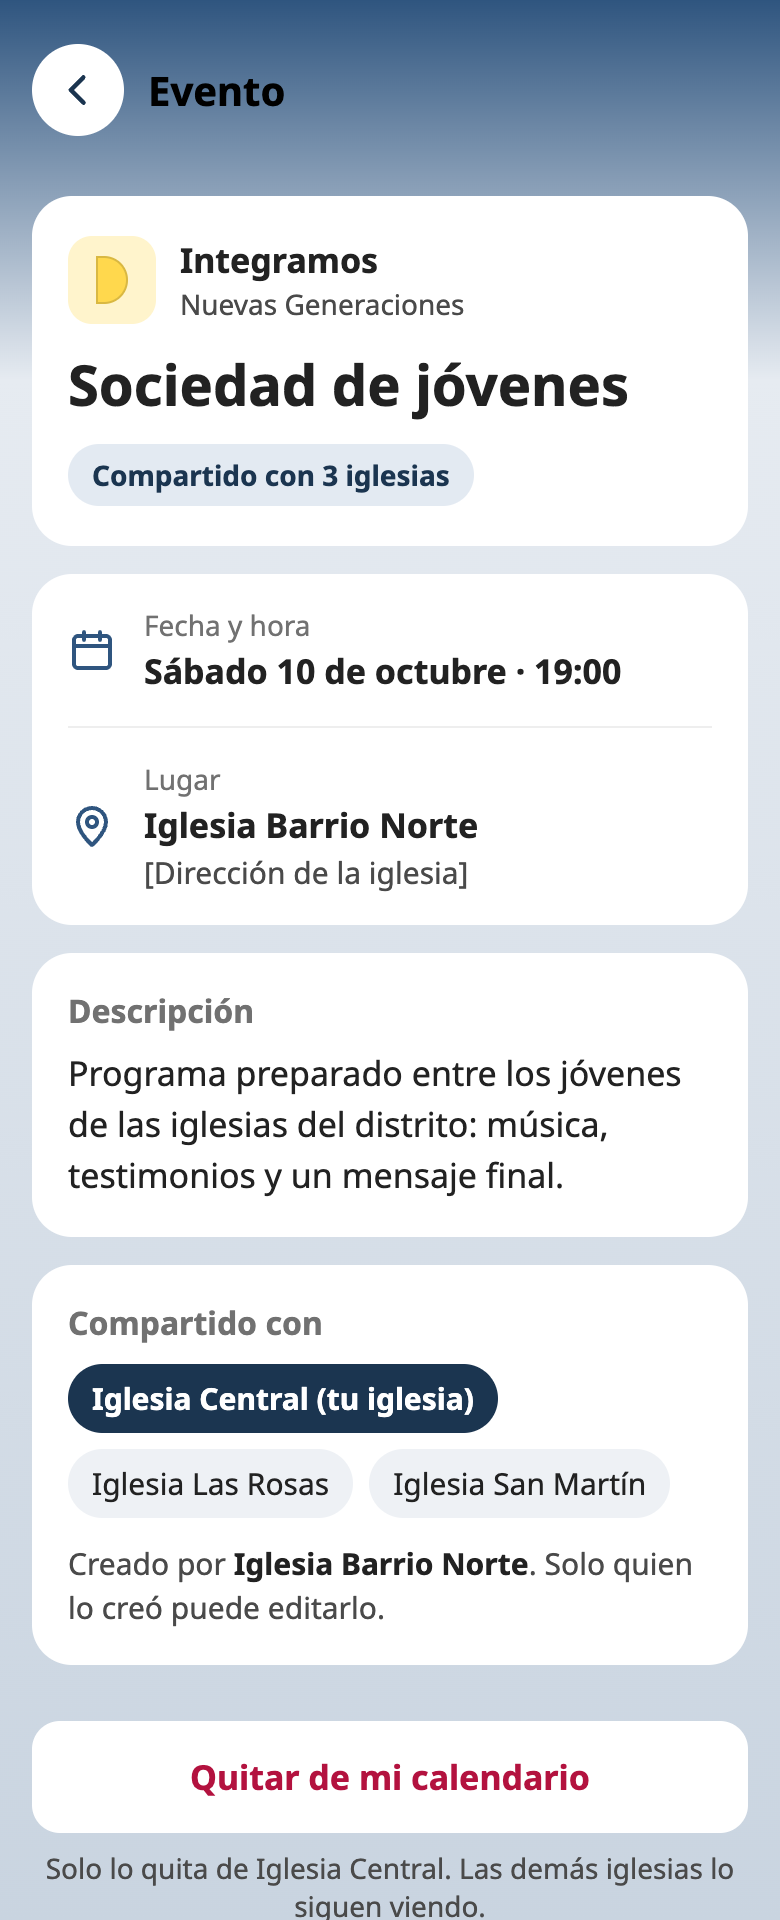
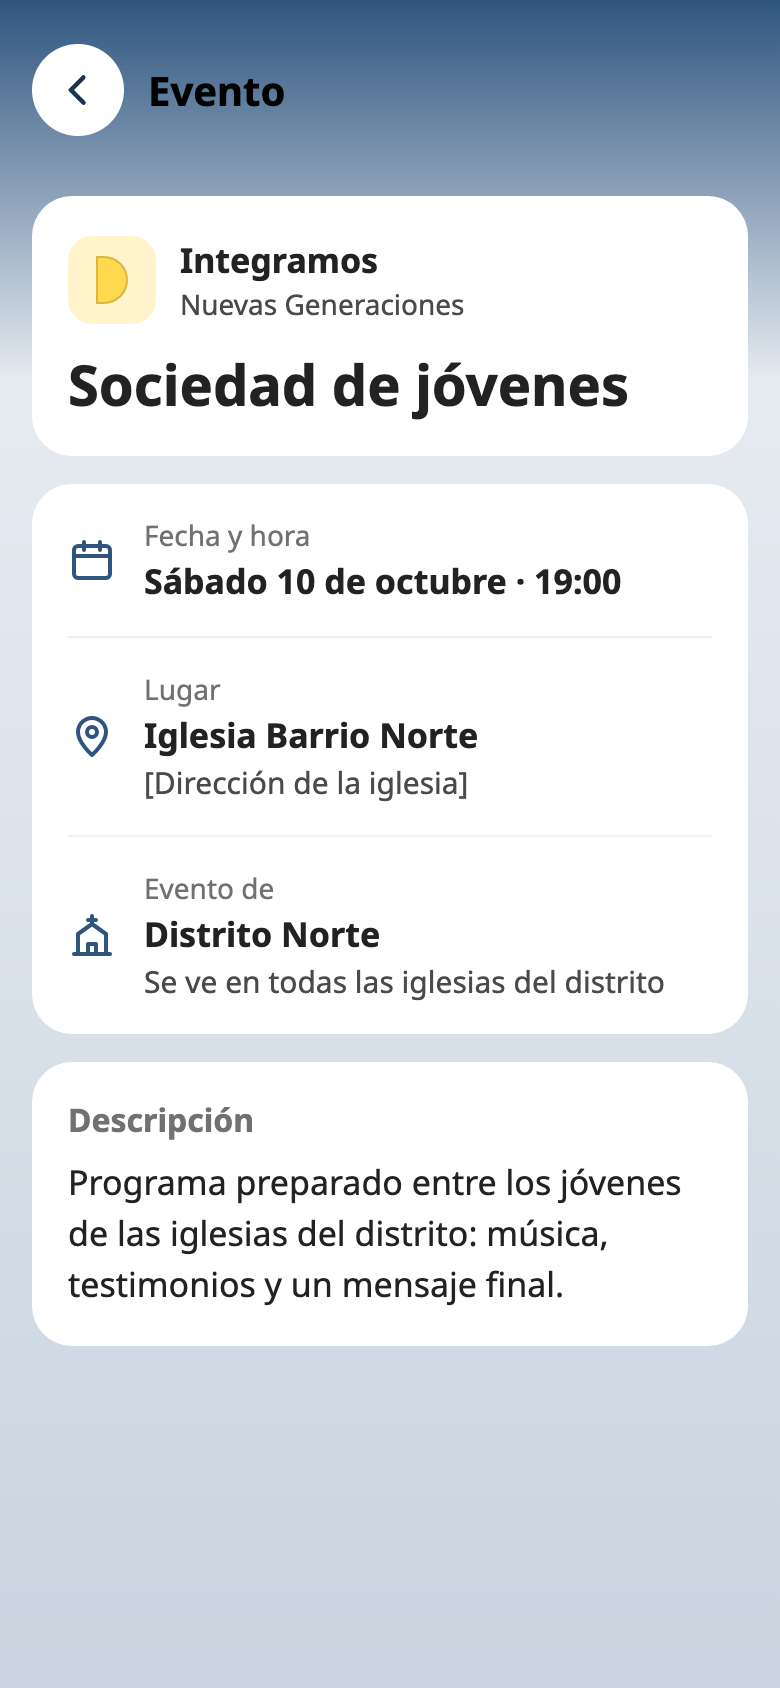
docs(diseno): show the duenio in Detalle de evento instead of who created it (#40)
- Replace "Solo quien lo creó puede editarlo" with the Evento de row.
- Add Editar and Borrar for whoever has a cargo that covers the duenio,
  and the Se repite row for a serie.
- Keep the shared evento in the HTML, off as v2.

diff --git a/diseno/pantallas/05-detalle-evento.html b/diseno/pantallas/05-detalle-evento.html
@@ -14,7 +14,7 @@ body{margin:0;font-family:'Noto Sans','Segoe UI',system-ui,sans-serif;color:#222
 a{color:#1B3550}a:hover{color:#10233A}
 </style>
 </helmet>
-<div style="width: 390px; height: 960px; box-sizing: border-box; background: linear-gradient(180deg, #2F557F 0px, #E6EBF1 190px, #C9D4E0 100%); display: flex; flex-direction: column; font-family: 'Noto Sans', 'Segoe UI', system-ui, sans-serif; color: #222222">
+<div style="width: 390px; height: 844px; box-sizing: border-box; background: linear-gradient(180deg, #2F557F 0px, #E6EBF1 190px, #C9D4E0 100%); display: flex; flex-direction: column; font-family: 'Noto Sans', 'Segoe UI', system-ui, sans-serif; color: #222222">
 
   <header style="flex-shrink: 0; padding: 22px 16px 0; display: flex; align-items: center; gap: 12px">
     <a href="Calendario.dc.html" aria-label="Volver" style="width: 46px; height: 46px; flex-shrink: 0; border-radius: 50%; background: #FFFFFF; display: flex; align-items: center; justify-content: center; color: #1B3550"><svg width="22" height="22" viewBox="0 0 24 24" fill="none" stroke="currentColor" stroke-width="2.4" stroke-linecap="round" stroke-linejoin="round"><path d="M15 5l-7 7 7 7"></path></svg></a>
@@ -34,7 +34,9 @@ a{color:#1B3550}a:hover{color:#10233A}
         </span>
       </div>
       <h1 style="margin: 0; font-size: 28px; line-height: 1.15; font-weight: 700">Sociedad de jóvenes</h1>
-      <span style="align-self: flex-start; padding: 6px 12px; border-radius: 999px; background: #E3EAF2; color: #1B3550; font-size: 14px; font-weight: 700">Compartido con 3 iglesias</span>
+      <sc-if value="{{ compartido }}" hint-placeholder-val="{{ false }}">
+        <span style="align-self: flex-start; padding: 6px 12px; border-radius: 999px; background: #E3EAF2; color: #1B3550; font-size: 14px; font-weight: 700">Compartido con 3 iglesias</span>
+      </sc-if>
     </div>
 
     <div style="display: flex; flex-direction: column; background: #FFFFFF; border-radius: 20px">
@@ -43,17 +45,35 @@ a{color:#1B3550}a:hover{color:#10233A}
         <span style="display: flex; flex-direction: column; gap: 2px"><span style="font-size: 14px; color: #717171">Fecha y hora</span><span style="font-size: 17px; font-weight: 700">Sábado 10 de octubre · 19:00</span></span>
       </div>
       <div style="height: 1px; background: #EEEEEE; margin: 0 18px"></div>
+      <!-- A serie shows how it repeats and until when (#35). -->
+      <sc-if value="{{ seRepite }}" hint-placeholder-val="{{ false }}">
+      <div style="display: flex; gap: 14px; align-items: center; padding: 16px 18px">
+        <svg width="24" height="24" viewBox="0 0 24 24" fill="none" stroke="#2F557F" stroke-width="2" stroke-linecap="round" stroke-linejoin="round" style="flex-shrink: 0"><path d="M17 2l4 4-4 4"></path><path d="M3 11v-1a4 4 0 0 1 4-4h14"></path><path d="M7 22l-4-4 4-4"></path><path d="M21 13v1a4 4 0 0 1-4 4H3"></path></svg>
+        <span style="display: flex; flex-direction: column; gap: 2px"><span style="font-size: 14px; color: #717171">Se repite</span><span style="font-size: 17px; font-weight: 700">{{ repeticion }}</span><span style="font-size: 15px; color: #4A4A4A">Hasta el {{ hasta }}</span></span>
+      </div>
+      <div style="height: 1px; background: #EEEEEE; margin: 0 18px"></div>
+      </sc-if>
       <div style="display: flex; gap: 14px; align-items: center; padding: 16px 18px">
         <svg width="24" height="24" viewBox="0 0 24 24" fill="none" stroke="#2F557F" stroke-width="2" stroke-linecap="round" stroke-linejoin="round" style="flex-shrink: 0"><path d="M12 21s-7-6.2-7-11.5A7 7 0 0 1 19 9.5C19 14.8 12 21 12 21z"></path><circle cx="12" cy="9.5" r="2.5"></circle></svg>
         <span style="display: flex; flex-direction: column; gap: 2px"><span style="font-size: 14px; color: #717171">Lugar</span><span style="font-size: 17px; font-weight: 700">Iglesia Barrio Norte</span><span style="font-size: 15px; color: #4A4A4A">[Dirección de la iglesia]</span></span>
       </div>
+      <!-- The duenio and where the evento is seen. Editing depends on the cargos covering the duenio, not on who loaded it (#13). -->
+      <div style="height: 1px; background: #EEEEEE; margin: 0 18px"></div>
+      <div style="display: flex; gap: 14px; align-items: center; padding: 16px 18px">
+        <svg width="24" height="24" viewBox="0 0 24 24" fill="none" stroke="#2F557F" stroke-width="2" stroke-linecap="round" stroke-linejoin="round" style="flex-shrink: 0"><path d="M12 2v4M10 4h4"></path><path d="M5 21V11l7-5 7 5v10"></path><path d="M10 21v-5h4v5"></path><path d="M3 21h18"></path></svg>
+        <span style="display: flex; flex-direction: column; gap: 2px"><span style="font-size: 14px; color: #717171">Evento de</span><span style="font-size: 17px; font-weight: 700">{{ duenio }}</span><span style="font-size: 15px; color: #4A4A4A">{{ seVe }}</span></span>
+      </div>
     </div>
 
+    <sc-if value="{{ hayDescripcion }}" hint-placeholder-val="{{ true }}">
     <div style="display: flex; flex-direction: column; gap: 8px; padding: 18px; border-radius: 20px; background: #FFFFFF">
       <h2 style="margin: 0; font-size: 16px; font-weight: 700; color: #717171">Descripción</h2>
       <p style="margin: 0; font-size: 17px; line-height: 1.5">Programa preparado entre los jóvenes de las iglesias del distrito: música, testimonios y un mensaje final.</p>
     </div>
+    </sc-if>
 
+    <!-- v2 (#14): an evento shared with other iglesias. Off in v1. -->
+    <sc-if value="{{ compartido }}" hint-placeholder-val="{{ false }}">
     <div style="display: flex; flex-direction: column; gap: 10px; padding: 18px; border-radius: 20px; background: #FFFFFF">
       <h2 style="margin: 0; font-size: 16px; font-weight: 700; color: #717171">Compartido con</h2>
       <div style="display: flex; flex-wrap: wrap; gap: 8px">
@@ -61,11 +81,13 @@ a{color:#1B3550}a:hover{color:#10233A}
         <span style="padding: 7px 12px; border-radius: 999px; background: #EEF1F5; font-size: 15px">Iglesia Las Rosas</span>
         <span style="padding: 7px 12px; border-radius: 999px; background: #EEF1F5; font-size: 15px">Iglesia San Martín</span>
       </div>
-      <p style="margin: 2px 0 0; font-size: 15px; line-height: 1.45; color: #4A4A4A">Creado por <strong style="color: #222222">Iglesia Barrio Norte</strong>. Solo quien lo creó puede editarlo.</p>
+      <p style="margin: 2px 0 0; font-size: 15px; line-height: 1.45; color: #4A4A4A">Compartido por <strong style="color: #222222">Iglesia Barrio Norte</strong>.</p>
     </div>
+    </sc-if>
 
     <div style="flex: 1"></div>
 
+    <sc-if value="{{ compartido }}" hint-placeholder-val="{{ false }}">
     <sc-if value="{{ quitado }}" hint-placeholder-val="{{ false }}">
       <div role="status" style="padding: 16px; border-radius: 16px; background: #FFFFFF; font-size: 16px; font-weight: 700; text-align: center">Ya no aparece en el calendario de Iglesia Central.</div>
     </sc-if>
@@ -75,14 +97,37 @@ a{color:#1B3550}a:hover{color:#10233A}
         <span style="font-size: 14px; color: #4A4A4A; text-align: center">Solo lo quita de Iglesia Central. Las demás iglesias lo siguen viendo.</span>
       </div>
     </sc-if>
+    </sc-if>
+
+    <!-- Only for whoever has a cargo that covers the duenio (#13). Borrar always asks first. -->
+    <sc-if value="{{ puedeEditar }}" hint-placeholder-val="{{ false }}">
+      <div style="display: flex; flex-direction: column; gap: 8px">
+        <a href="CrearEvento.dc.html" style="display: flex; align-items: center; justify-content: center; gap: 8px; min-height: 56px; border-radius: 14px; background: #1B3550; color: #FFFFFF; font-size: 17px; font-weight: 700; text-decoration: none">
+          <svg width="20" height="20" viewBox="0 0 24 24" fill="none" stroke="currentColor" stroke-width="2.2" stroke-linecap="round" stroke-linejoin="round"><path d="M12 20h9"></path><path d="M16.5 3.5a2.1 2.1 0 0 1 3 3L7 19l-4 1 1-4z"></path></svg>
+          Editar
+        </a>
+        <button type="button" style="min-height: 56px; border-radius: 14px; border: 0; background: #FFFFFF; color: #B0103F; font-family: inherit; font-size: 17px; font-weight: 700; cursor: pointer">Borrar</button>
+      </div>
+    </sc-if>
   </div>
 </div>
 </x-dc>
-<script type="text/x-dc" data-dc-script data-props='{"$preview":{"width":390,"height":960}}'>
+<script type="text/x-dc" data-dc-script data-props='{"$preview":{"width":390,"height":844}}'>
 class Component extends DCLogic {
   renderVals() {
-    const q = !!(this.state && this.state.q);
-    return { quitado: q, visible: !q, quitar: () => this.setState({ q: true }) };
+    const st = this.state || {};
+    const q = !!st.q;
+    const compartido = false; // v2
+    // Capture 5 is the hermano; capture 5b sets puedeEditar and a serie.
+    const puedeEditar = !!st.puedeEditar;
+    const seRepite = !!st.seRepite;
+    return {
+      quitado: q, visible: !q, quitar: () => this.setState({ q: true }),
+      compartido, puedeEditar, seRepite,
+      repeticion: 'El tercer sábado de cada mes', hasta: '17 de octubre de 2027',
+      duenio: 'Distrito Norte', seVe: 'Se ve en todas las iglesias del distrito',
+      hayDescripcion: true
+    };
   }
 }
 </script>
